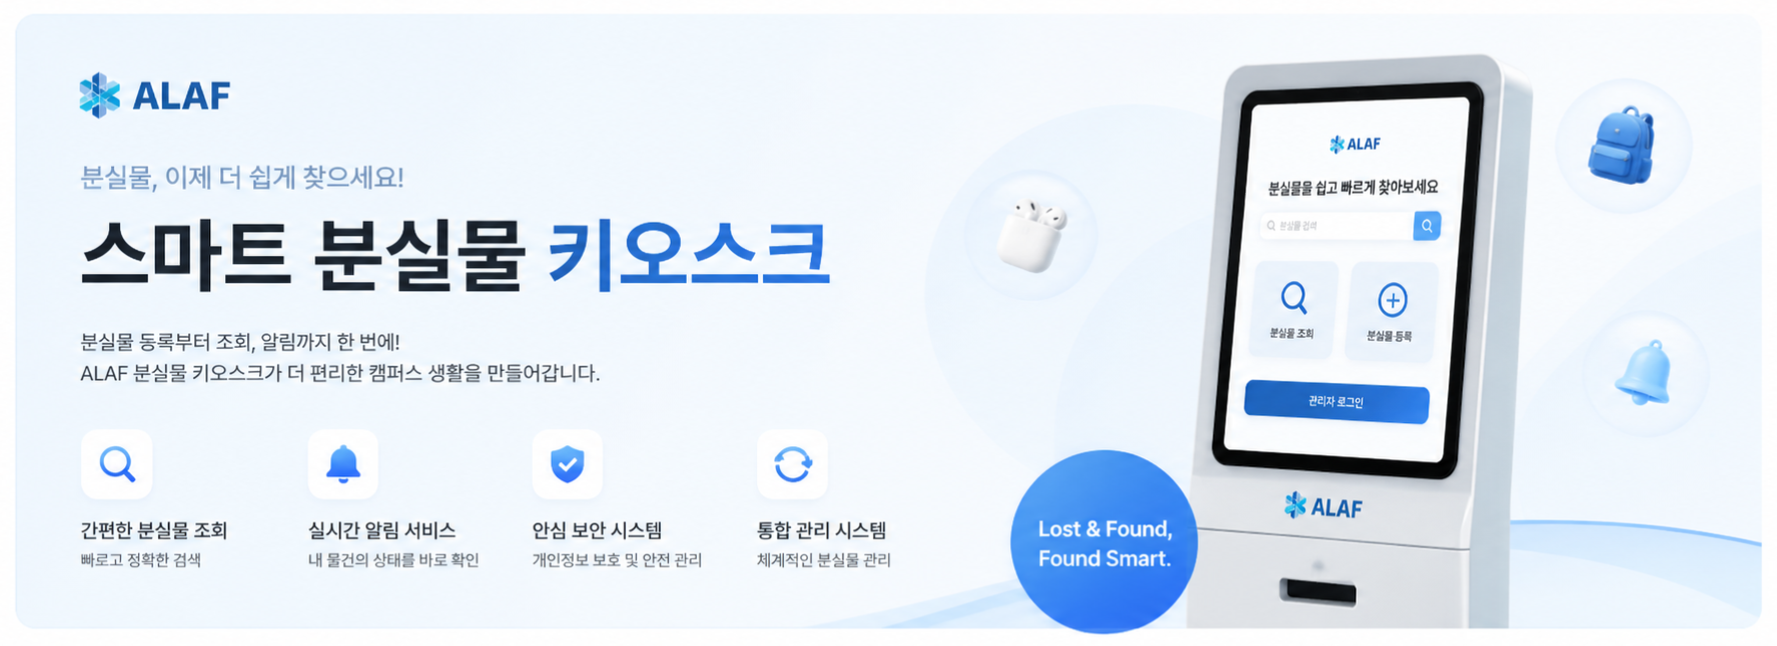
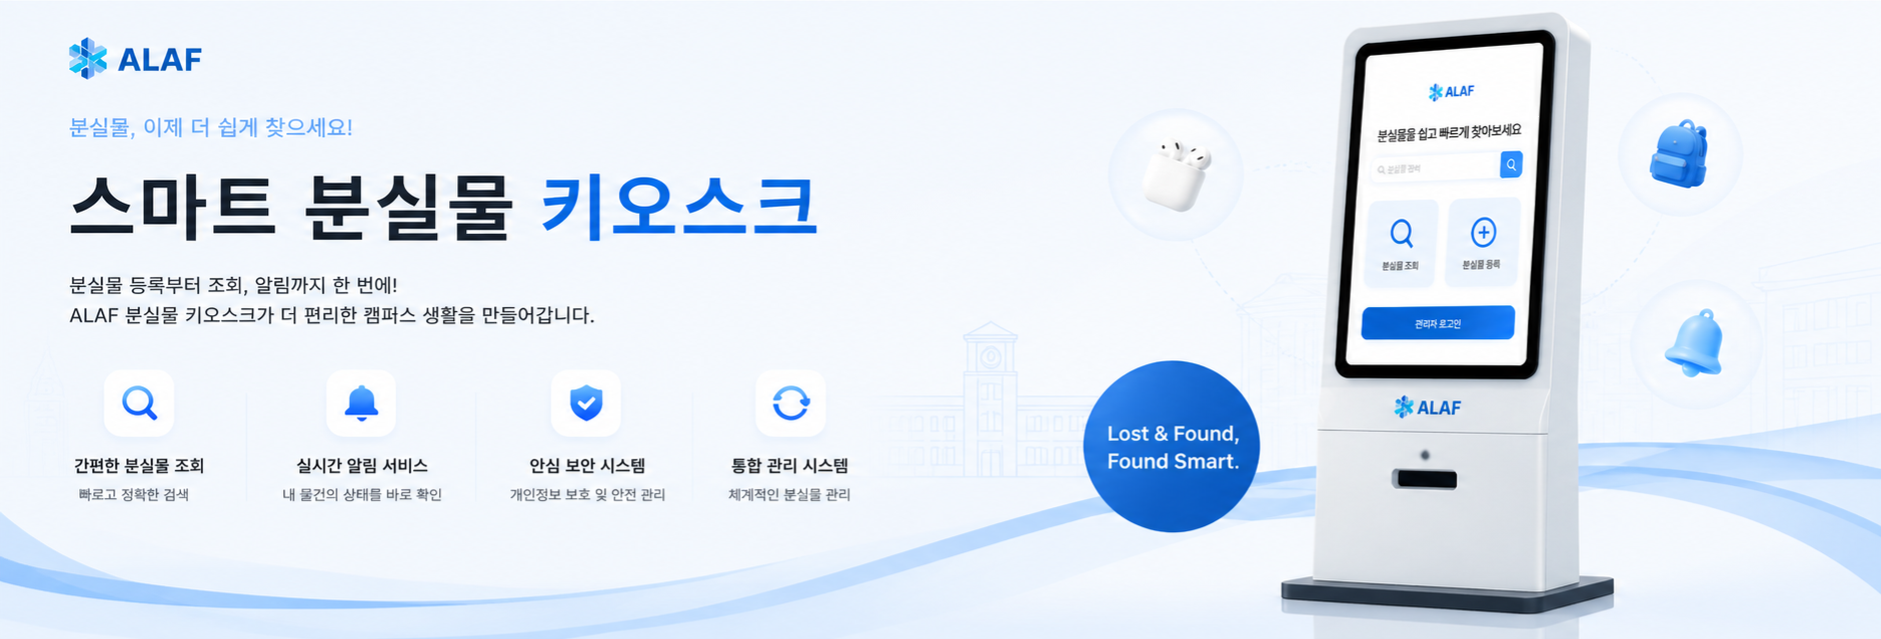
광고 이미지, 비율 개선

diff --git a/src/ui/web/WebLogin.css b/src/ui/web/WebLogin.css
@@ -153,7 +153,7 @@
 
 .banner-inner {
   width: 100%;
-  max-width: 1400px; /* 기존 레이아웃 가이드라인과 동일하게 맞춤 */
+  max-width: 1200px; /* 기존 레이아웃 가이드라인과 동일하게 맞춤 */
   border-radius: 16px; /* 이미지 모서리 둥글게 */
   overflow: hidden;
   box-shadow: 0 4px 12px rgba(0, 0, 0, 0.04); /* 은은한 그림자 */
